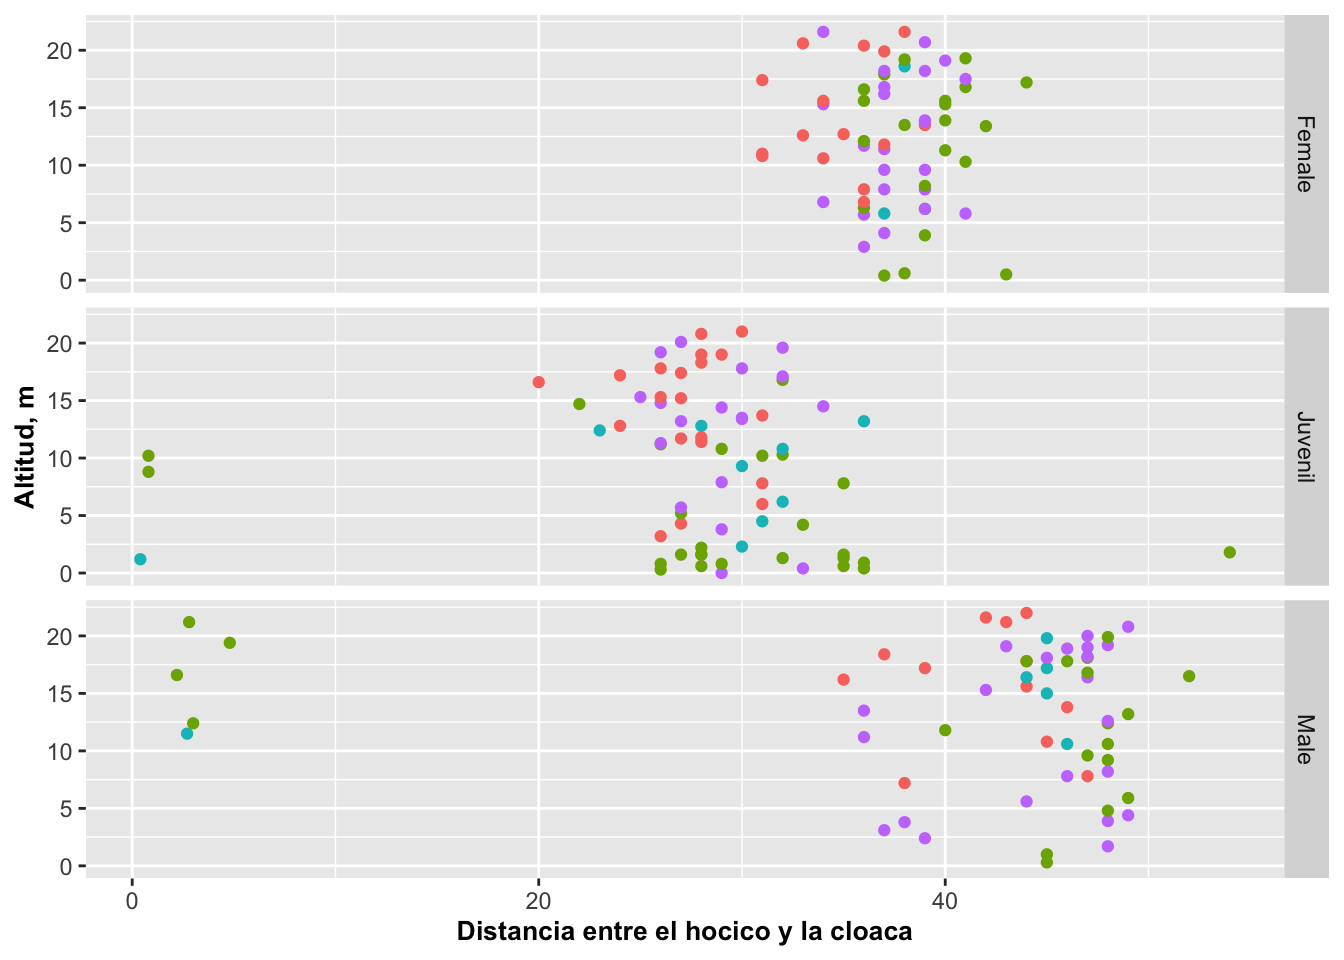
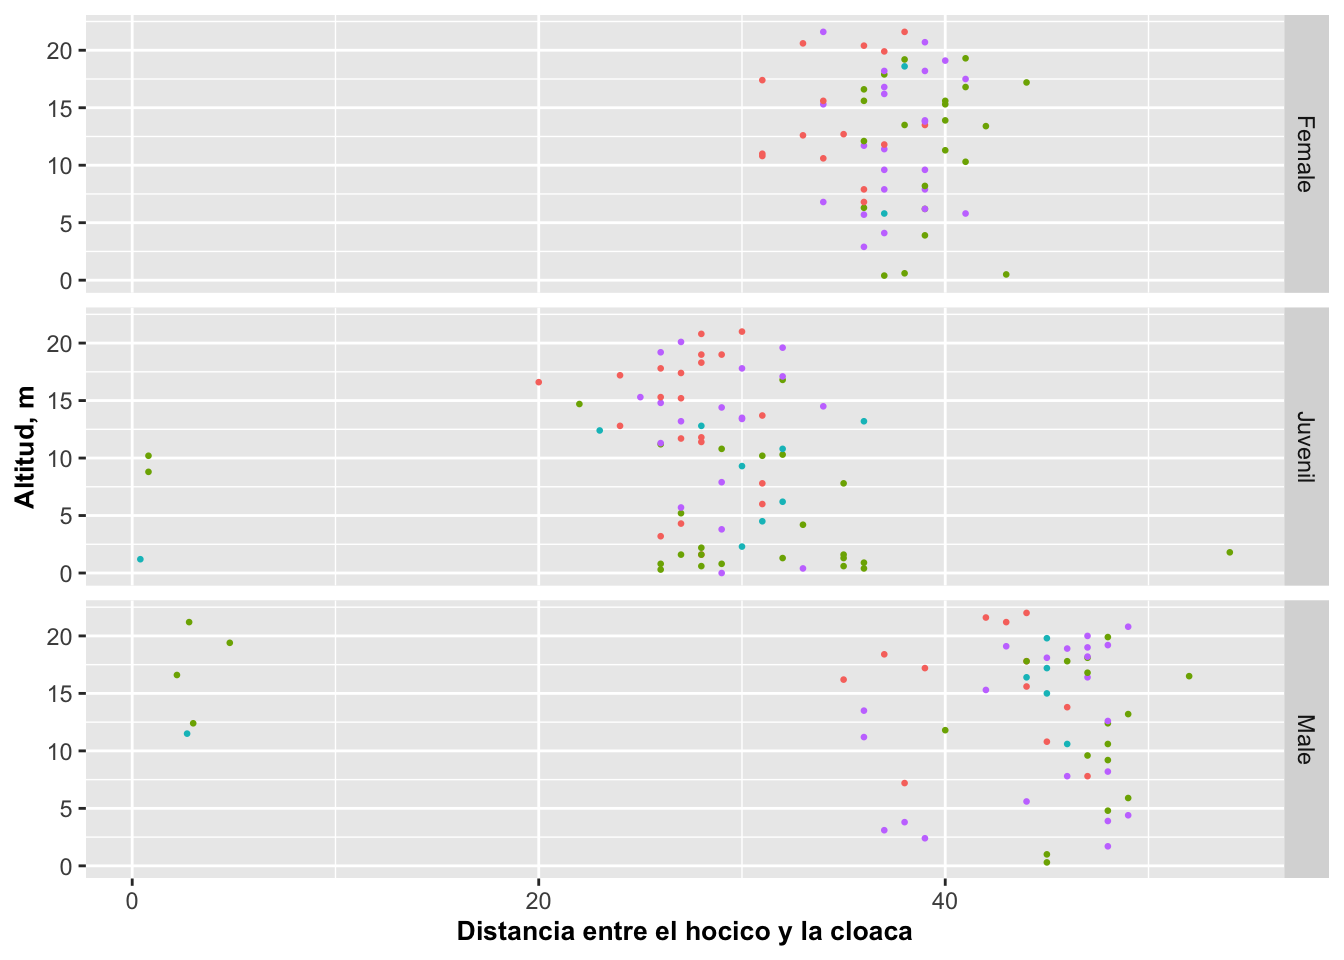
G9

diff --git a/G9_Facet_Grid.html b/G9_Facet_Grid.html
@@ -668,7 +668,7 @@ div.tocify {
 <p>Ahora ponemos la variable antes de la <sub><strong>, pero note que después de la</strong></sub> hay un punot <strong>.</strong>. Notemos el efecto en la Figura a continuación.</p>
 <div class="sourceCode" id="cb4"><pre class="sourceCode r"><code class="sourceCode r"><span id="cb4-1"><a href="#cb4-1"></a>rr=<span class="kw">ggplot</span>(Anolis, <span class="kw">aes</span>(SVL, HEIGHT))</span>
 <span id="cb4-2"><a href="#cb4-2"></a></span>
-<span id="cb4-3"><a href="#cb4-3"></a>rr<span class="op">+</span><span class="kw">geom_point</span>(<span class="kw">aes</span>(<span class="dt">color=</span>Survey_Site))<span class="op">+</span></span>
+<span id="cb4-3"><a href="#cb4-3"></a>rr<span class="op">+</span><span class="kw">geom_point</span>(<span class="kw">aes</span>(<span class="dt">color=</span>Survey_Site), <span class="dt">size=</span>.<span class="dv">5</span>)<span class="op">+</span><span class="st"> </span><span class="co"># usar &quot;size&quot; para cambiar el tamaño de los puntos</span></span>
 <span id="cb4-4"><a href="#cb4-4"></a><span class="st">  </span><span class="kw">facet_grid</span>(SEX_AGE<span class="op">~</span>.)<span class="op">+</span></span>
 <span id="cb4-5"><a href="#cb4-5"></a><span class="st">  </span><span class="kw">labs</span>(<span class="dt">y=</span><span class="st">&quot;Altitud, m&quot;</span>)<span class="op">+</span></span>
 <span id="cb4-6"><a href="#cb4-6"></a><span class="st">  </span><span class="kw">theme</span>(<span class="dt">legend.position=</span><span class="st">&quot;none&quot;</span>)<span class="op">+</span></span>
@@ -700,8 +700,7 @@ div.tocify {
 <span id="cb6-4"><a href="#cb6-4"></a><span class="st">  </span><span class="kw">facet_grid</span>(SEX_AGE<span class="op">~</span>SEASON, <span class="dt">scales=</span><span class="st">&quot;free_x&quot;</span>)<span class="op">+</span></span>
 <span id="cb6-5"><a href="#cb6-5"></a><span class="st">  </span><span class="kw">labs</span>(<span class="dt">y=</span><span class="st">&quot;Altitud, m&quot;</span>)<span class="op">+</span></span>
 <span id="cb6-6"><a href="#cb6-6"></a><span class="st">  </span><span class="kw">theme</span>(<span class="dt">legend.position=</span><span class="st">&quot;none&quot;</span>)<span class="op">+</span></span>
-<span id="cb6-7"><a href="#cb6-7"></a><span class="st">  </span><span class="kw">theme</span>(<span class="dt">axis.title=</span><span class="kw">element_text</span>(<span class="dt">size=</span><span class="dv">10</span>,<span class="dt">face=</span><span class="st">&quot;bold&quot;</span>))<span class="op">+</span></span>
-<span id="cb6-8"><a href="#cb6-8"></a><span class="st">  </span><span class="kw">xlab</span>(<span class="st">&quot;Distancia entre el hocico y la cloaca&quot;</span>)</span></code></pre></div>
+<span id="cb6-7"><a href="#cb6-7"></a><span class="st">  </span><span class="kw">xlab</span>(<span class="st">&quot;Distancia entre el hocico y la cloaca&quot;</span>)</span></code></pre></div>
 <p><img src="G9_Facet_Grid_files/figure-html/facetgrid3-1.png" width="672" style="display: block; margin: auto;" /></p>
 <hr />
 </div>
@@ -726,7 +725,10 @@ div.tocify {
 <span id="cb8-4"><a href="#cb8-4"></a><span class="st">  </span><span class="kw">theme</span>(<span class="dt">legend.position=</span><span class="st">&quot;none&quot;</span>)<span class="op">+</span></span>
 <span id="cb8-5"><a href="#cb8-5"></a><span class="st">  </span><span class="kw">theme</span>(<span class="dt">axis.title=</span><span class="kw">element_text</span>(<span class="dt">size=</span><span class="dv">10</span>,<span class="dt">face=</span><span class="st">&quot;bold&quot;</span>))<span class="op">+</span></span>
 <span id="cb8-6"><a href="#cb8-6"></a><span class="st">  </span><span class="kw">xlab</span>(<span class="st">&quot;Distancia entre el hocico y la cloaca&quot;</span>)<span class="op">+</span></span>
-<span id="cb8-7"><a href="#cb8-7"></a><span class="st">  </span><span class="kw">theme</span>(<span class="dt">axis.text.x =</span> <span class="kw">element_text</span>(<span class="dt">angle =</span> <span class="dv">60</span>, <span class="dt">vjust =</span> <span class="dv">1</span>, <span class="dt">hjust=</span><span class="dv">1</span>))</span></code></pre></div>
+<span id="cb8-7"><a href="#cb8-7"></a><span class="st">  </span><span class="kw">theme</span>(<span class="dt">axis.text.x =</span> <span class="kw">element_text</span>(<span class="dt">angle =</span> <span class="dv">60</span>, <span class="dt">vjust =</span> <span class="dv">1</span>, <span class="dt">hjust=</span><span class="dv">1</span>))<span class="op">+</span></span>
+<span id="cb8-8"><a href="#cb8-8"></a><span class="st">  </span><span class="kw">theme</span>(<span class="dt">axis.title=</span><span class="kw">element_text</span>(<span class="dt">size=</span><span class="dv">10</span>,<span class="dt">face=</span><span class="st">&quot;bold&quot;</span>))<span class="op">+</span></span>
+<span id="cb8-9"><a href="#cb8-9"></a><span class="st">  </span><span class="kw">theme</span>(<span class="dt">axis.text.x=</span><span class="kw">element_text</span>(<span class="dt">size=</span><span class="dv">5</span>,<span class="dt">face=</span><span class="st">&quot;bold&quot;</span>))<span class="op">+</span></span>
+<span id="cb8-10"><a href="#cb8-10"></a><span class="st">  </span><span class="kw">theme</span>(<span class="dt">axis.text.y=</span><span class="kw">element_text</span>(<span class="dt">size=</span><span class="dv">10</span>,<span class="dt">face=</span><span class="st">&quot;italic&quot;</span>))</span></code></pre></div>
 <p><img src="G9_Facet_Grid_files/figure-html/facetgrid5-1.png" width="672" /></p>
 <hr />
 <ol style="list-style-type: decimal">
